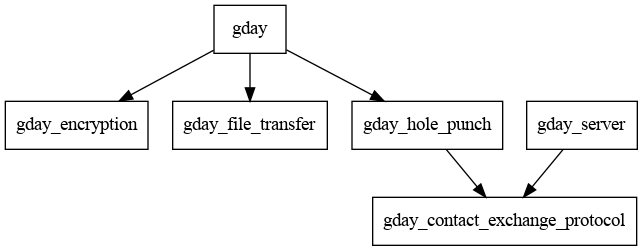
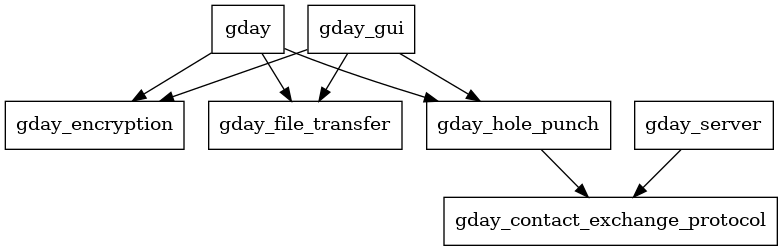
Clarified readme

diff --git a/README.md b/README.md
@@ -1,7 +1,10 @@
 # gday
 [![Crates.io Version](https://img.shields.io/crates/v/gday)](https://crates.io/crates/gday)
 
-Command line tool to securely send files (without a relay or port forwarding).
+Tool for trying to send files directly between computers, without a relay.
+Works through most [NATs](https://en.wikipedia.org/wiki/Network_address_translation), but not all.
+
+For a higher success rate, consider a tool that uses a relay server, such as [magic-wormhole](https://github.com/magic-wormhole/magic-wormhole).
 
 <pre>
 <b style="color:lime;">peer_1:</b> gday send file.mp4 folder
@@ -17,33 +20,28 @@ Tell your mate to run "gday get <b>1.n5xn8.wvqsf</b>".
 
 ## Installation
 
-To run the executable directly:
-
 1. Download an executable from [releases](https://github.com/manforowicz/gday/releases).
 2. Extract it (on Linux: `tar xf <file>`).
 3. Run it: `./gday`
 
-To install with **cargo**:
+Alternatively:
 ```
 cargo install gday
 ```
-
-To install with **brew**:
+or
 ```
 brew install manforowicz/tap/gday
 ```
 
 ## Features
 
-- No limit on the size of files and folders sent.
-
-- Files are sent directly, without relay servers.
+- Files are sent directly, without a relay.
     - A server is only used to exchange socket addresses at the beginning.
     Then, a peer-to-peer connection is established with [TCP Hole Punching](https://bford.info/pub/net/p2pnat/).
     This may not work through some restrictive [NATs](https://en.wikipedia.org/wiki/Network_address_translation). If that happens, enable IPv6, move to a different network, or use a tool with a relay server such as [magic-wormhole](https://github.com/magic-wormhole/magic-wormhole") or [croc](https://github.com/schollz/croc).
 
-- Automatically resumes interrupted transfers. Just `gday send` the same files, and partial downloads will be detected and resumed.
-    - This is implemented by having the receiver identify when an offered file metadata (name and last modified time) exactly matches metadata saved in a local temporary file.
+- Automatically resumes interrupted transfers. Just `gday send` the same files, and the download will pick up where it left off.
+    - This is implemented by having the receiver check whether the offered file name and last modified time exactly match a metadata file left by an interrupted transfer.
 
 - If a contact exchange server is down, just uses a different one from the default list. Or specify your own with `--server`.
 
@@ -53,7 +51,7 @@ TLS and file transfer is over TCP that's end-to-end encrypted with
     - (not TLS for file transfer, because the rustls library [doesn't support PSK](https://github.com/rustls/rustls/issues/174) which is needed for the certificate-less peer-to-peer connection).
 
 - Automatically tries both IPv4 and IPv6.
-    - When IPv6 is available, peer-to-peer connection almost always succeeds because NATs are uncommon on IPv6.
+    - When IPv6 is available, connection almost always succeeds because IPv6 NATs are uncommon.
 
 - Authenticates your peer using [SPAKE2](https://datatracker.ietf.org/doc/rfc9382/) to derive an
 encryption key from a shared secret.
@@ -130,7 +128,7 @@ Options:
     <tr>
         <td><a href="https://github.com/CramBL/quick-file-transfer">qft</a></td>
         <td>✅</td>
-        <td>❌</td>
+        <td>✅</td>
         <td>❌</td>
         <td>✅</td>
         <td>❌</td>
@@ -210,31 +208,29 @@ Options:
     </tr>
 </table>
 
-Open an [issue](https://github.com/manforowicz/gday/issues) to add more projects to this list.
-
 ## Technical Overview
 
-1. **Peer A** randomly generates a _"room code"_ and a _"shared secret"_.
+1. **Peer A** randomly generates a _"room code"_ and _"shared secret"_.
 
 2. **Peer A** randomly selects a **gday server** ID and connects to it over TLS.
 
-3. **Peer A** sends its _room code_, local IP addresses, and port numbers to the **gday server**.
+3. **Peer A** sends its _room code_, private IP addresses, and port numbers to the **gday server**.
 
-4. **Peer A** combines the server's ID, _room code_, and _shared secret_ into a code of form `"1.n5xn8.wvqsf"` and gives it to **Peer B**.
+4. **Peer A** combines the server's ID, _room code_, and _shared secret_ into a code of form `"1.n5xn8.wvqsf"` and tells it to **Peer B**, possibly via phone call or text message.
 
-5. **Peer A** tells this code to **Peer B**, possibly via phone call or text message.
+5. **Peer B** also sends this _room code_ and its private IP addresses and port numbers to the **gday server**.
 
-6. **Peer B** also sends this _room code_ and its local IP addresses and port numbers to the **gday server**.
+6. The **gday server** looks at the TCP connections with the clients to determine their public IP addresses and ports.
 
-7. The **gday server** sends both peers the public and local IP addresses and ports of the other peer.
+7. The **gday server** sends both peers the public and private IP addresses and ports of the other peer.
 
-8. From the same local port that they used to connect to the server, each peer tries a few times to connect over TCP to both the local and public socket addresses of the other peer. This may fail on networks with strict [NATs](https://en.wikipedia.org/wiki/Network_address_translation).
+8. From the same private port that they used to connect to the server, each peer tries a few times to connect over TCP to both the private and public socket addresses of the other peer. This may fail on networks with strict [NATs](https://en.wikipedia.org/wiki/Network_address_translation).
 
-9. Once any of the connection attempts succeeds, they use password-authenticated key exchange to derive a strong shared key from their _shared secret_, and use it to encrypt their TCP connection with chacha20poly1305.
+9. Once any of the connection attempts succeeds, they use password-authenticated key exchange to derive a strong key from their _shared secret_, and use it to encrypt their TCP connection with chacha20poly1305.
 
 10. **Peer A** sends **Peer B** a list of offered files and their sizes.
 
-11. **Peer B** detects interrupted downloads by checking if any offered file's metadata (name and last modified time) exactly matches metadata saved in a local temporary file leftover from the interrupted download.
+11. **Peer B** detects interrupted downloads by checking if any offered file's name and last modified time exactly matches metadata saved in a local temporary file leftover from the interrupted download.
 
 12. **Peer B** sends **Peer A** the file portions it would like to receive
 
@@ -243,7 +239,7 @@ Open an [issue](https://github.com/manforowicz/gday/issues) to add more projects
 ## In this repository
 
 - [gday](/gday/) - Command line tool for sending files.
-- [gday_gui](/gday_gui/) - GUI for sending files.
+- [gday_gui](/gday_gui/) - GUI app for sending files.
 - [gday_server](/gday_server/) - Server that lets two peers share their socket addresses.
 - [gday_hole_punch](/gday_hole_punch/) - Library for establishing peer-to-peer TCP connection.
 - [gday_file_transfer](/gday_file_transfer/) - Library for transferring files over a connection.
@@ -251,6 +247,6 @@ Open an [issue](https://github.com/manforowicz/gday/issues) to add more projects
 - [gday_contact_exchange_protocol](/gday_contact_exchange_protocol/) - Library with protocol for two peers to share their socket
 addresses via a server.
 
-![gday dependency graph](/other/dependency_graph.png)
+![gday dependency graph](https://github.com/manforowicz/gday/blob/main/other/dependency_graph.png?raw=true)
 
 See [CONTRIBUTING.md](/CONTRIBUTING.md) if you'd like to contribute to this project.

diff --git a/gday/README.md b/gday/README.md
@@ -1,7 +1,10 @@
 # gday
 [![Crates.io Version](https://img.shields.io/crates/v/gday)](https://crates.io/crates/gday)
 
-Command line tool to securely send files (without a relay or port forwarding).
+Tool for trying to send files directly between computers, without a relay.
+Works through most [NATs](https://en.wikipedia.org/wiki/Network_address_translation), but not all.
+
+For a higher success rate, consider a tool that uses a relay server, such as [magic-wormhole](https://github.com/magic-wormhole/magic-wormhole).
 
 <pre>
 <b style="color:lime;">peer_1:</b> gday send file.mp4 folder
@@ -17,33 +20,28 @@ Tell your mate to run "gday get <b>1.n5xn8.wvqsf</b>".
 
 ## Installation
 
-To run the executable directly:
-
 1. Download an executable from [releases](https://github.com/manforowicz/gday/releases).
 2. Extract it (on Linux: `tar xf <file>`).
 3. Run it: `./gday`
 
-To install with **cargo**:
+Alternatively:
 ```
 cargo install gday
 ```
-
-To install with **brew**:
+or
 ```
 brew install manforowicz/tap/gday
 ```
 
 ## Features
 
-- No limit on the size of files and folders sent.
-
-- Files are sent directly, without relay servers.
+- Files are sent directly, without a relay.
     - A server is only used to exchange socket addresses at the beginning.
     Then, a peer-to-peer connection is established with [TCP Hole Punching](https://bford.info/pub/net/p2pnat/).
     This may not work through some restrictive [NATs](https://en.wikipedia.org/wiki/Network_address_translation). If that happens, enable IPv6, move to a different network, or use a tool with a relay server such as [magic-wormhole](https://github.com/magic-wormhole/magic-wormhole") or [croc](https://github.com/schollz/croc).
 
-- Automatically resumes interrupted transfers. Just `gday send` the same files, and partial downloads will be detected and resumed.
-    - This is implemented by having the receiver identify when an offered file metadata (name and last modified time) exactly matches metadata saved in a local temporary file.
+- Automatically resumes interrupted transfers. Just `gday send` the same files, and the download will pick up where it left off.
+    - This is implemented by having the receiver check whether the offered file name and last modified time exactly match a metadata file left by an interrupted transfer.
 
 - If a contact exchange server is down, just uses a different one from the default list. Or specify your own with `--server`.
 
@@ -53,7 +51,7 @@ TLS and file transfer is over TCP that's end-to-end encrypted with
     - (not TLS for file transfer, because the rustls library [doesn't support PSK](https://github.com/rustls/rustls/issues/174) which is needed for the certificate-less peer-to-peer connection).
 
 - Automatically tries both IPv4 and IPv6.
-    - When IPv6 is available, peer-to-peer connection almost always succeeds because NATs are uncommon on IPv6.
+    - When IPv6 is available, connection almost always succeeds because IPv6 NATs are uncommon.
 
 - Authenticates your peer using [SPAKE2](https://datatracker.ietf.org/doc/rfc9382/) to derive an
 encryption key from a shared secret.
@@ -130,7 +128,7 @@ Options:
     <tr>
         <td><a href="https://github.com/CramBL/quick-file-transfer">qft</a></td>
         <td>✅</td>
-        <td>❌</td>
+        <td>✅</td>
         <td>❌</td>
         <td>✅</td>
         <td>❌</td>
@@ -210,31 +208,29 @@ Options:
     </tr>
 </table>
 
-Open an [issue](https://github.com/manforowicz/gday/issues) to add more projects to this list.
-
 ## Technical Overview
 
-1. **Peer A** randomly generates a _"room code"_ and a _"shared secret"_.
+1. **Peer A** randomly generates a _"room code"_ and _"shared secret"_.
 
 2. **Peer A** randomly selects a **gday server** ID and connects to it over TLS.
 
-3. **Peer A** sends its _room code_, local IP addresses, and port numbers to the **gday server**.
+3. **Peer A** sends its _room code_, private IP addresses, and port numbers to the **gday server**.
 
-4. **Peer A** combines the server's ID, _room code_, and _shared secret_ into a code of form `"1.n5xn8.wvqsf"` and gives it to **Peer B**.
+4. **Peer A** combines the server's ID, _room code_, and _shared secret_ into a code of form `"1.n5xn8.wvqsf"` and tells it to **Peer B**, possibly via phone call or text message.
 
-5. **Peer A** tells this code to **Peer B**, possibly via phone call or text message.
+5. **Peer B** also sends this _room code_ and its private IP addresses and port numbers to the **gday server**.
 
-6. **Peer B** also sends this _room code_ and its local IP addresses and port numbers to the **gday server**.
+6. The **gday server** looks at the TCP connections with the clients to determine their public IP addresses and ports.
 
-7. The **gday server** sends both peers the public and local IP addresses and ports of the other peer.
+7. The **gday server** sends both peers the public and private IP addresses and ports of the other peer.
 
-8. From the same local port that they used to connect to the server, each peer tries a few times to connect over TCP to both the local and public socket addresses of the other peer. This may fail on networks with strict [NATs](https://en.wikipedia.org/wiki/Network_address_translation).
+8. From the same private port that they used to connect to the server, each peer tries a few times to connect over TCP to both the private and public socket addresses of the other peer. This may fail on networks with strict [NATs](https://en.wikipedia.org/wiki/Network_address_translation).
 
-9. Once any of the connection attempts succeeds, they use password-authenticated key exchange to derive a strong shared key from their _shared secret_, and use it to encrypt their TCP connection with chacha20poly1305.
+9. Once any of the connection attempts succeeds, they use password-authenticated key exchange to derive a strong key from their _shared secret_, and use it to encrypt their TCP connection with chacha20poly1305.
 
 10. **Peer A** sends **Peer B** a list of offered files and their sizes.
 
-11. **Peer B** detects interrupted downloads by checking if any offered file's metadata (name and last modified time) exactly matches metadata saved in a local temporary file leftover from the interrupted download.
+11. **Peer B** detects interrupted downloads by checking if any offered file's name and last modified time exactly matches metadata saved in a local temporary file leftover from the interrupted download.
 
 12. **Peer B** sends **Peer A** the file portions it would like to receive
 
@@ -249,3 +245,5 @@ Open an [issue](https://github.com/manforowicz/gday/issues) to add more projects
 - [gday_encryption](https://crates.io/crates/gday_encryption) - Library for encrypting an IO stream.
 - [gday_contact_exchange_protocol](https://crates.io/crates/gday_contact_exchange_protocol) - Library with protocol for two peers to share their socket
 addresses via a server.
+
+![gday dependency graph](https://github.com/manforowicz/gday/blob/main/other/dependency_graph.png?raw=true)

diff --git a/gday_gui/README.md b/gday_gui/README.md
@@ -1,12 +1,27 @@
 # gday_gui
 [![Crates.io Version](https://img.shields.io/crates/v/gday_gui)](https://crates.io/crates/gday_gui)
-[![docs.rs](https://img.shields.io/docsrs/gday_gui)](https://docs.rs/gday_gui/)
 
-GUI to securely send files (without a relay or port forwarding).
+GUI for trying to send files directly between computers, without a relay.
+Works through most [NATs](https://en.wikipedia.org/wiki/Network_address_translation), but not all.
 
-See [gday](https://crates.io/crates/gday) for more information.
+For a higher success rate, consider a tool that uses a relay server, such as [magic-wormhole](https://github.com/magic-wormhole/magic-wormhole).
 
-Note: the Gday command line tool has more features and options than this GUI.
+See the [gday](https://crates.io/crates/gday) command line tool for more features and information.
+
+## Installation
+
+1. Download an executable from [releases](https://github.com/manforowicz/gday/releases).
+2. Extract it (on Linux: `tar xf <file>`).
+3. Run it: `./gday_gui`
+
+Alternatively:
+```
+cargo install gday_gui
+```
+or
+```
+brew install manforowicz/tap/gday_gui
+```
 
 ## Related
 
@@ -17,3 +32,5 @@ Note: the Gday command line tool has more features and options than this GUI.
 - [gday_encryption](https://crates.io/crates/gday_encryption) - Library for encrypting an IO stream.
 - [gday_contact_exchange_protocol](https://crates.io/crates/gday_contact_exchange_protocol) - Library with protocol for two peers to share their socket
 addresses via a server.
+
+![gday dependency graph](https://github.com/manforowicz/gday/blob/main/other/dependency_graph.png?raw=true)

diff --git a/gday_server/README.md b/gday_server/README.md
@@ -6,18 +6,15 @@ A server that runs the [gday_contact_exchange_protocol](https://docs.rs/gday_con
 
 ## Installation
 
-To run the executable directly:
-
 1. Download an executable from [releases](https://github.com/manforowicz/gday/releases).
 2. Extract it (on Linux: `tar xf <file>`).
 3. Run it: `./gday_server`
 
-To install with **cargo**:
+Alternatively:
 ```
 $ cargo install gday_server
 ```
-
-To install with **brew**:
+or
 ```
 $ brew install manforowicz/tap/gday_server
 ```
@@ -64,6 +61,9 @@ Here's how:
 
 ## Related
 - [gday](https://crates.io/crates/gday) - Command line tool for sending files.
+- [gday_gui](/gday_gui/) - GUI app for sending files.
 
 ## Depends on
 - [gday_contact_exchange_protocol](https://docs.rs/gday_contact_exchange_protocol/) - Library with protocol for two peers to share their socket addresses via a server.
+
+![gday dependency graph](https://github.com/manforowicz/gday/blob/main/other/dependency_graph.png?raw=true)

diff --git a/gday_contact_exchange_protocol/README.md b/gday_contact_exchange_protocol/README.md
@@ -8,5 +8,6 @@ See the [documentation](https://docs.rs/gday_contact_exchange_protocol/).
 
 ## Used by:
 - [gday](https://crates.io/crates/gday) - Command line tool for sending files.
+- [gday_gui](/gday_gui/) - GUI app for sending files.
 - [gday_server](https://crates.io/crates/gday_server) - Server that lets two peers share their socket addresses.
 - [gday_hole_punch](https://docs.rs/gday_hole_punch/) - Library for establishing peer-to-peer TCP connection.

diff --git a/gday_hole_punch/README.md b/gday_hole_punch/README.md
@@ -11,6 +11,7 @@ See the [documentation](https://docs.rs/gday_hole_punch/).
 
 ## Used by
 - [gday](https://crates.io/crates/gday) - Command line tool for sending files.
+- [gday_gui](/gday_gui/) - GUI app for sending files.
 
 ## Depends on
 - [gday_contact_exchange_protocol](https://docs.rs/gday_contact_exchange_protocol/) - Library with protocol for two peers to share their socket addresses via a server.

diff --git a/CONTRIBUTING.md b/CONTRIBUTING.md
@@ -23,3 +23,5 @@ Read the instructions in [/gday_server/README.md](/gday_server/README.md).
 ## Technical
 
 [release.yml](/.github/workflows/release.yml) is automatically generated by [cargo dist](https://github.com/astral-sh/cargo-dist).
+
+Dependency graph is generated by `cargo depgraph --workspace-only | dot -Tpng > other/dependency_graph.png`

diff --git a/gday_file_transfer/README.md b/gday_file_transfer/README.md
@@ -9,3 +9,4 @@ See the [documentation](https://docs.rs/gday_file_transfer/).
 
 ## Used by
 - [gday](https://crates.io/crates/gday) - Command line tool for sending files.
+- [gday_gui](/gday_gui/) - GUI app for sending files.

diff --git a/gday_encryption/README.md b/gday_encryption/README.md
@@ -9,3 +9,4 @@ See the [documentation](https://docs.rs/gday_encryption/).
 
 ## Used by
 - [gday](https://crates.io/crates/gday) - Command line tool for sending files.
+- [gday_gui](/gday_gui/) - GUI app for sending files.
